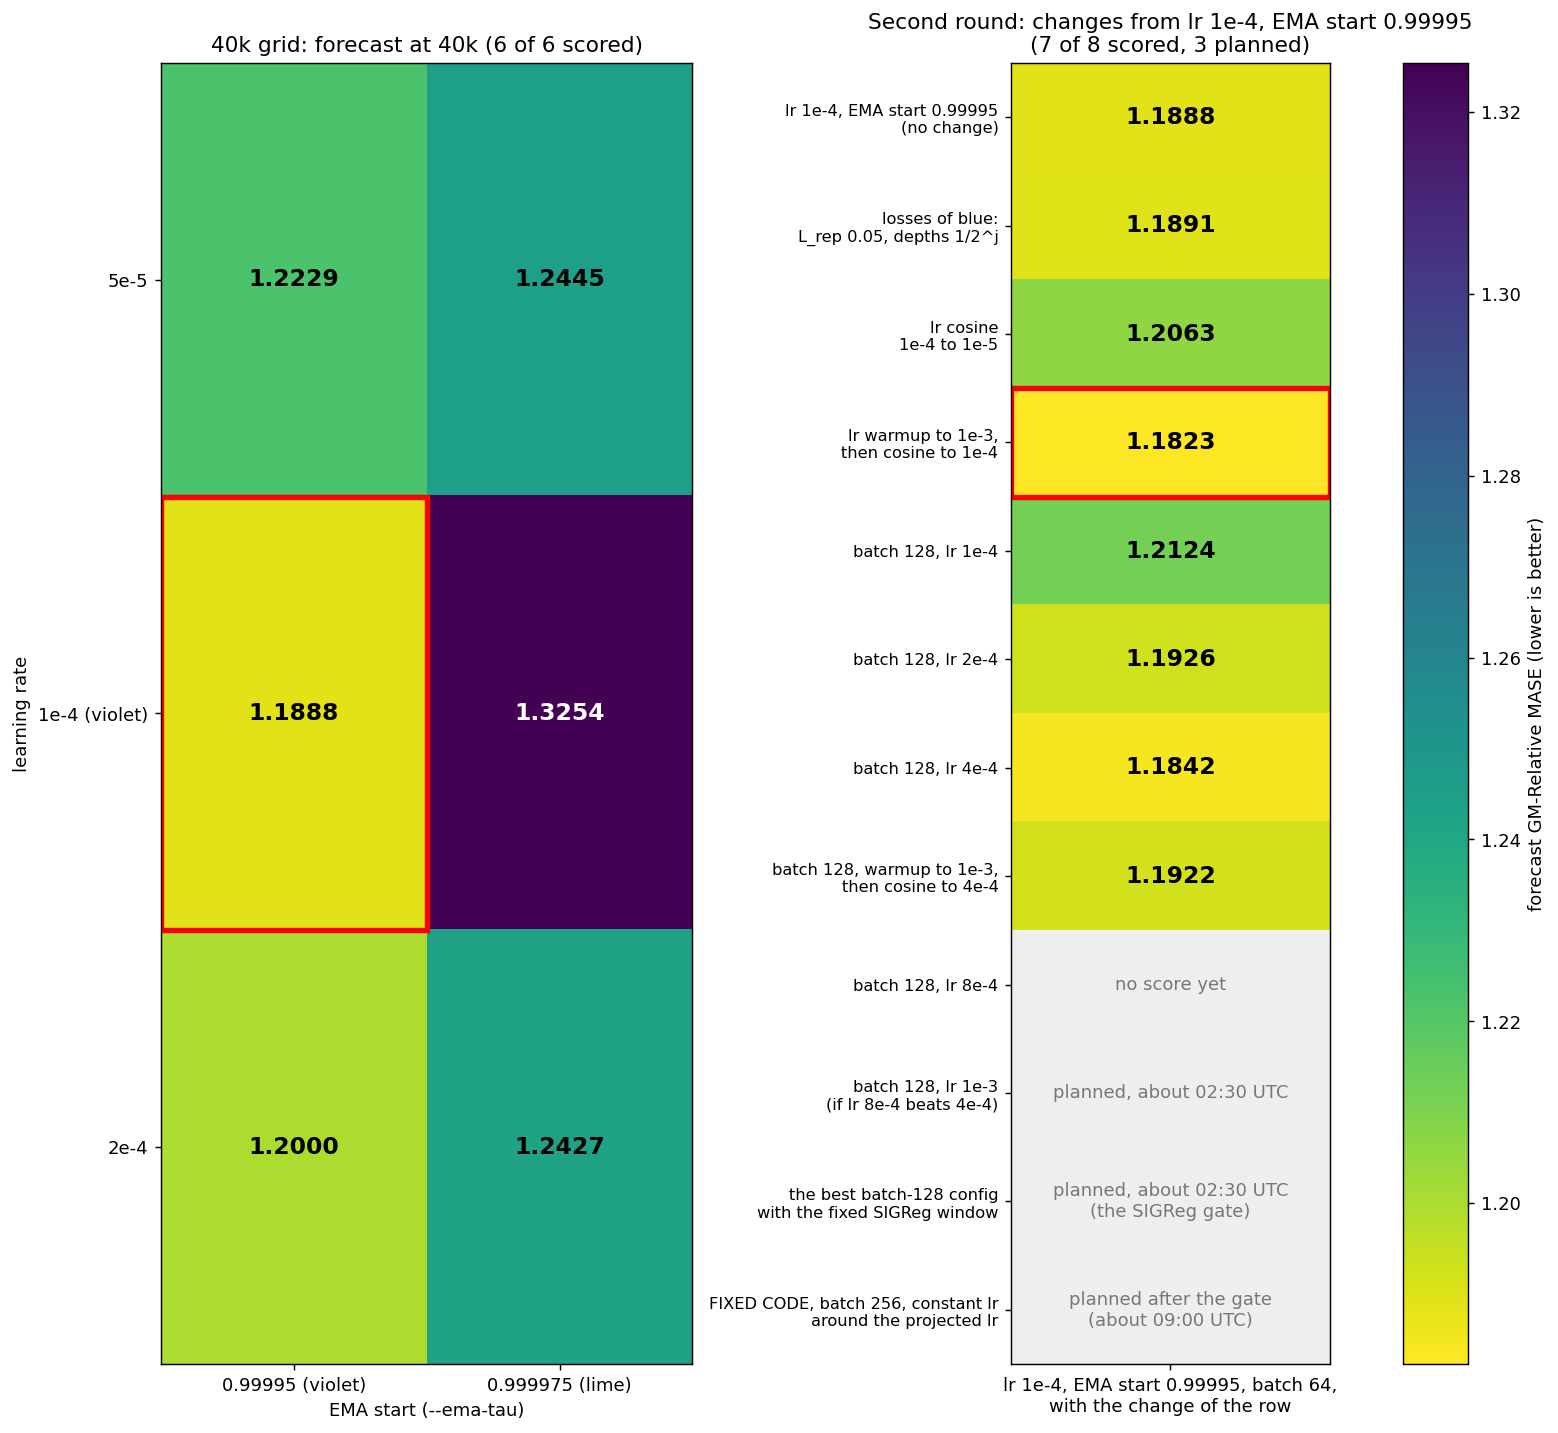
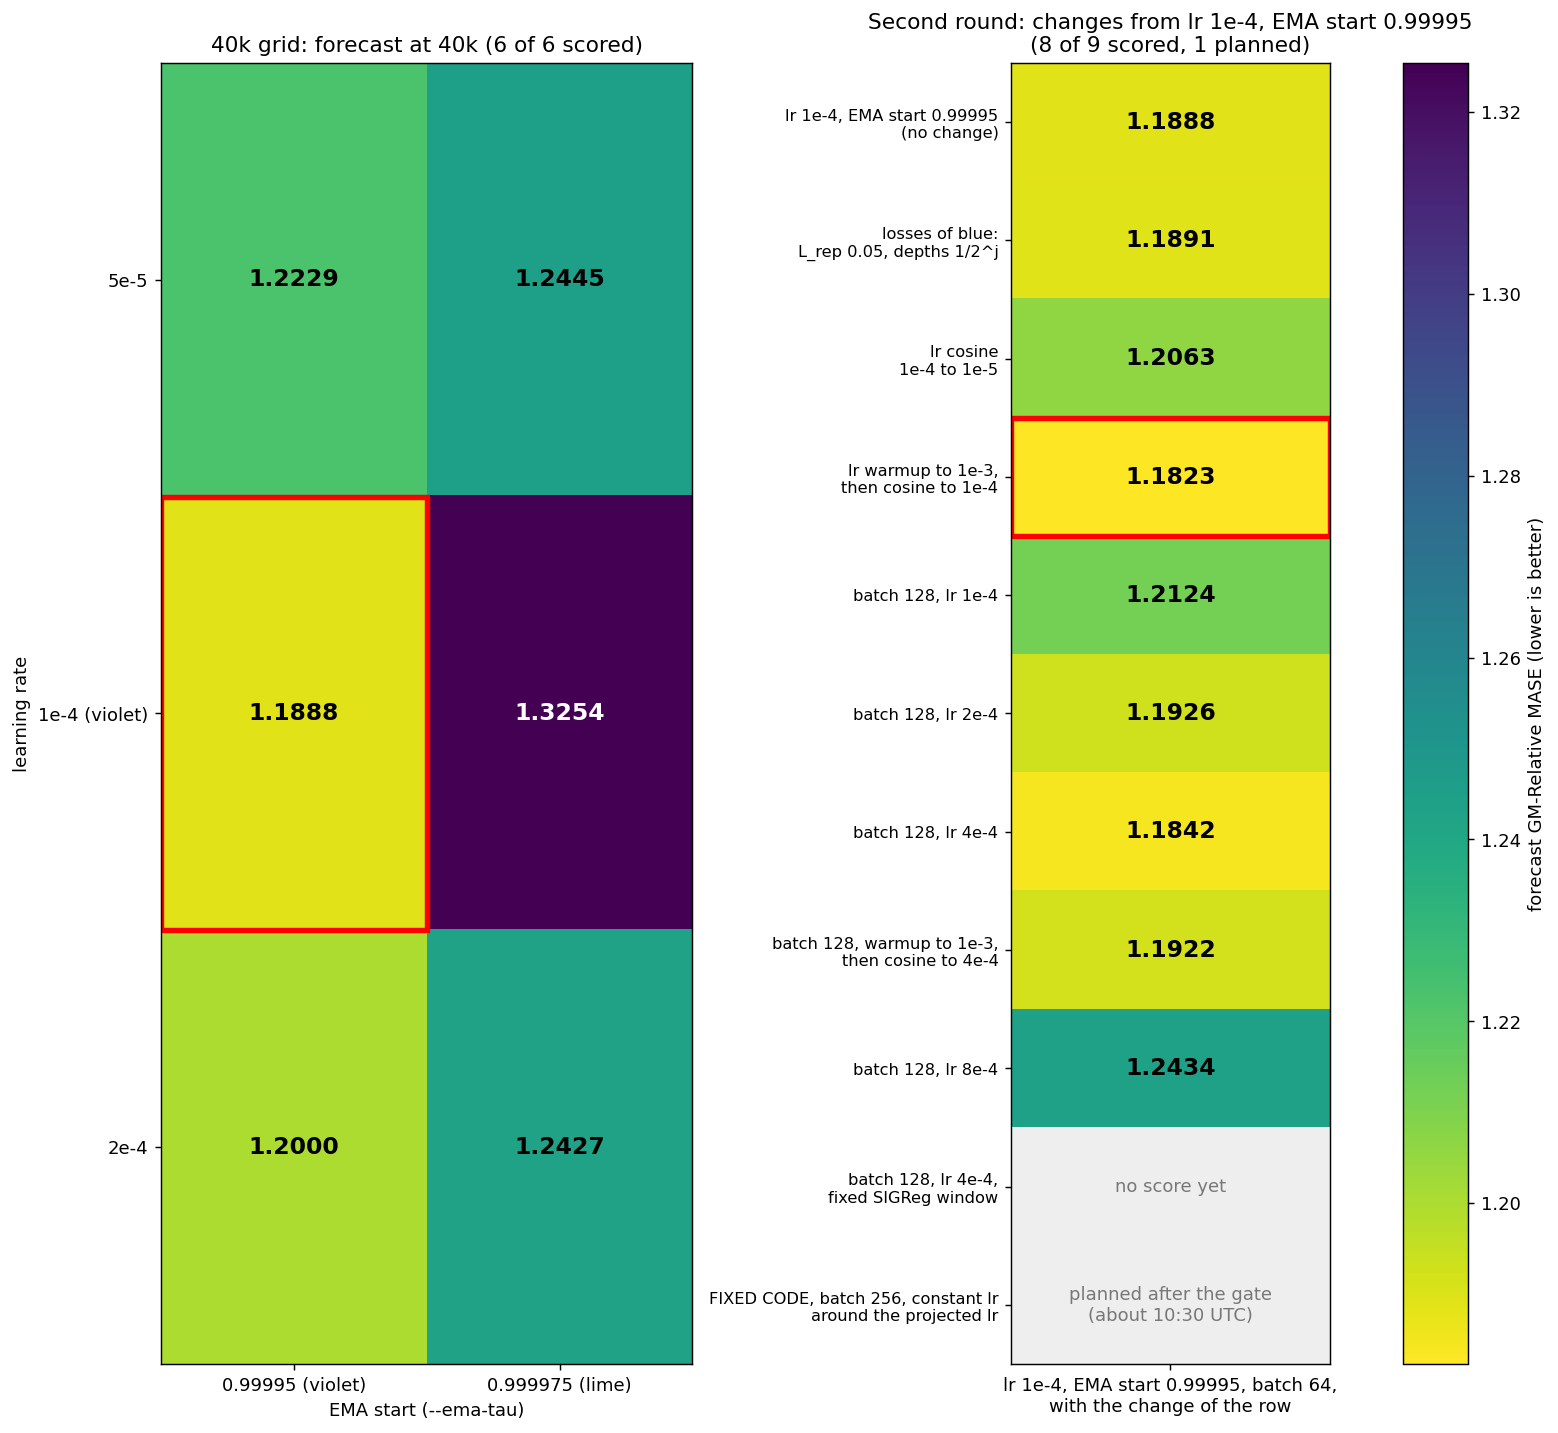
freq_family report: batch 128 at lr 8e-4 gives 1.2434; the SIGReg gate trains
The lowest batch-128 score is at the constant lr 4e-4 (1.1842). The gate run is batch 128 at lr 4e-4
with the SIGReg window fix of #438. The heatmap keeps one planned row: batch 256 on the fixed code.

diff --git a/reports/2026-10-10_frequency_family_head/scripts/plot_grid40k.py b/reports/2026-10-10_frequency_family_head/scripts/plot_grid40k.py
@@ -51,20 +51,19 @@ ROUND2 = {BEST: ("lr 1e-4, EMA start 0.99995\n(no change)", "1e-4"),
           "g40b_lr4em4_tau99995_bs128": ("batch 128, lr 4e-4", "4e-4"),
           "g40w_lr1em3_wu4k_cos4em4_bs128": ("batch 128, warmup to 1e-3,\nthen cosine to 4e-4",
                                              "warmup to 1e-3, cosine to 4e-4"),
-          "g40b_lr8em4_tau99995_bs128": ("batch 128, lr 8e-4", "8e-4")}
+          "g40b_lr8em4_tau99995_bs128": ("batch 128, lr 8e-4", "8e-4"),
+          "g40b_lr4em4_tau99995_bs128_sigfix": ("batch 128, lr 4e-4,\nfixed SIGReg window", "4e-4")}
 # The planned runs of the search, not started: (row label, when). The user (11-03 about
 # 21:05 UTC): the heatmap shows them; each one moves into ROUND2 when it starts.
 PLANNED = [
-    ("batch 128, lr 1e-3\n(if lr 8e-4 beats 4e-4)", "planned, about 02:30 UTC"),
-    ("the best batch-128 config\nwith the fixed SIGReg window", "planned, about 02:30 UTC\n(the SIGReg gate)"),
-    ("FIXED CODE, batch 256, constant lr\naround the projected lr", "planned after the gate\n(about 09:00 UTC)"),
+    ("FIXED CODE, batch 256, constant lr\naround the projected lr", "planned after the gate\n(about 10:30 UTC)"),
 ]
 # run -> its colour in the radar and in the training figure of the second round
 ROUND2_COLOURS = {BEST: "#d95f02", "g40b_lr1em4_tau99995_rep005h": "#1f77b4",
                   "g40c_lr1em4_tau99995_cos": "#e7298a", "g40w_lr1em3_wu4k_cos": "#66a61e",
                   "g40b_lr1em4_tau99995_bs128": "#bcbd22", "g40b_lr2em4_tau99995_bs128": "#17becf",
                   "g40b_lr4em4_tau99995_bs128": "#8c564b", "g40w_lr1em3_wu4k_cos4em4_bs128": "#d62728",
-                  "g40b_lr8em4_tau99995_bs128": "#6a3d9a"}
+                  "g40b_lr8em4_tau99995_bs128": "#6a3d9a", "g40b_lr4em4_tau99995_bs128_sigfix": "#e6ab02"}
 
 
 def run_score(run):

diff --git a/reports/2026-10-10_frequency_family_head/scripts/plot_grid40k_round2.py b/reports/2026-10-10_frequency_family_head/scripts/plot_grid40k_round2.py
@@ -3,8 +3,9 @@ for the view only: the decisions use the forecast GM-Relative MASE. The best
 cell of the grid (lr 1e-4, EMA start 0.99995) and the changes from it: the
 losses of blue (L_rep 0.05, the L_align depth weights 1/2^j), the lr schedule
 (C: a cosine from 1e-4 to 1e-5 over the 40k steps; W: a warmup to 1e-3 over 4k
-steps, then a cosine to 1e-4), batch 128 at the lr 1e-4, 2e-4 and 4e-4, and A:
-batch 128 with the warmup of W, then a cosine to 4e-4. Three panels on one step
+steps, then a cosine to 1e-4), batch 128 at the lr 1e-4, 2e-4, 4e-4 and 8e-4, A:
+batch 128 with the warmup of W, then a cosine to 4e-4, and the SIGReg gate: batch
+128 at lr 4e-4 with the SIGReg window fix of #438. Three panels on one step
 axis, means over bins of 500 steps:
 
   1. The lr of each step, from the flags of the run (the formula of
@@ -52,6 +53,8 @@ RUNS = {
     "g40w_lr1em3_wu4k_cos4em4_bs128": ("A: batch 128, warmup to 1e-3 over 4k, cosine to 4e-4",
                                        (1e-3, 4e-4, STEPS, 4000), False),
     "g40b_lr8em4_tau99995_bs128": ("batch 128, lr 8e-4", (8e-4, 8e-4, STEPS, 0), False),
+    "g40b_lr4em4_tau99995_bs128_sigfix": ("SIGReg gate: batch 128, lr 4e-4, fixed SIGReg window",
+                                          (4e-4, 4e-4, STEPS, 0), False),
 }
 
 

diff --git a/reports/2026-10-10_frequency_family_head/frequency_family_head.md b/reports/2026-10-10_frequency_family_head/frequency_family_head.md
@@ -64,10 +64,11 @@ The EMA start 0.99995 is better than 0.999975 at each learning rate.
 The second round starts from lr 1e-4 with the EMA start 0.99995.
 A warmup of the learning rate to 1e-3 over 4k steps, then a cosine to 1e-4, gives 1.1823, the lowest score.
 The losses of blue give 1.1891, and a cosine from 1e-4 to 1e-5 gives 1.2063.
-At batch 128, the learning rates 1e-4, 2e-4 and 4e-4 give 1.2124, 1.1926 and 1.1842.
-The score decreases up to 4e-4, the highest learning rate of the search.
+At batch 128, the learning rates 1e-4, 2e-4, 4e-4 and 8e-4 give 1.2124, 1.1926, 1.1842 and 1.2434.
+The lowest score is at 4e-4.
 At batch 128, a warmup to 1e-3 over 4k steps, then a cosine to 4e-4, gives 1.1922.
 The constant learning rate 4e-4 gives 1.1842.
+A run at batch 128 and lr 4e-4 with the SIGReg window fix of #438 trains.
 
 ![Relative MASE per GIFT-Eval dataset](plots/grid40k_radar.png)
 
